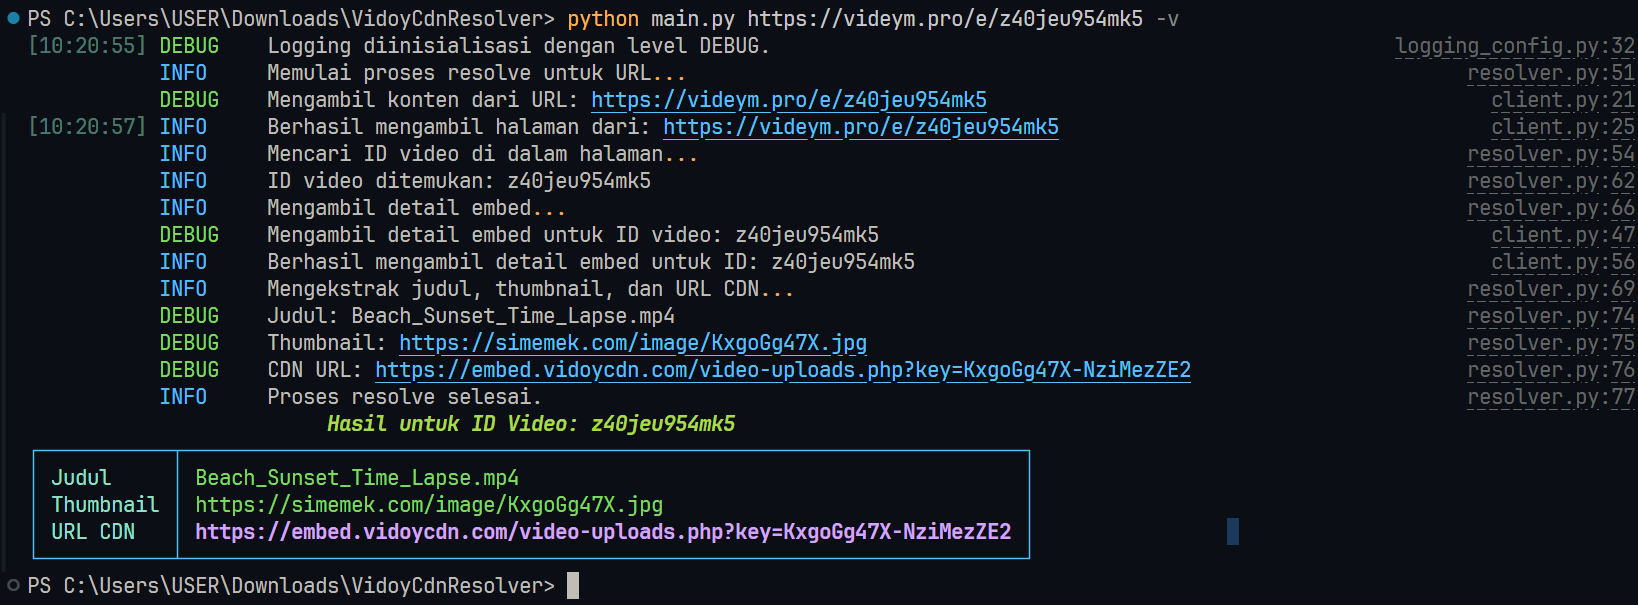
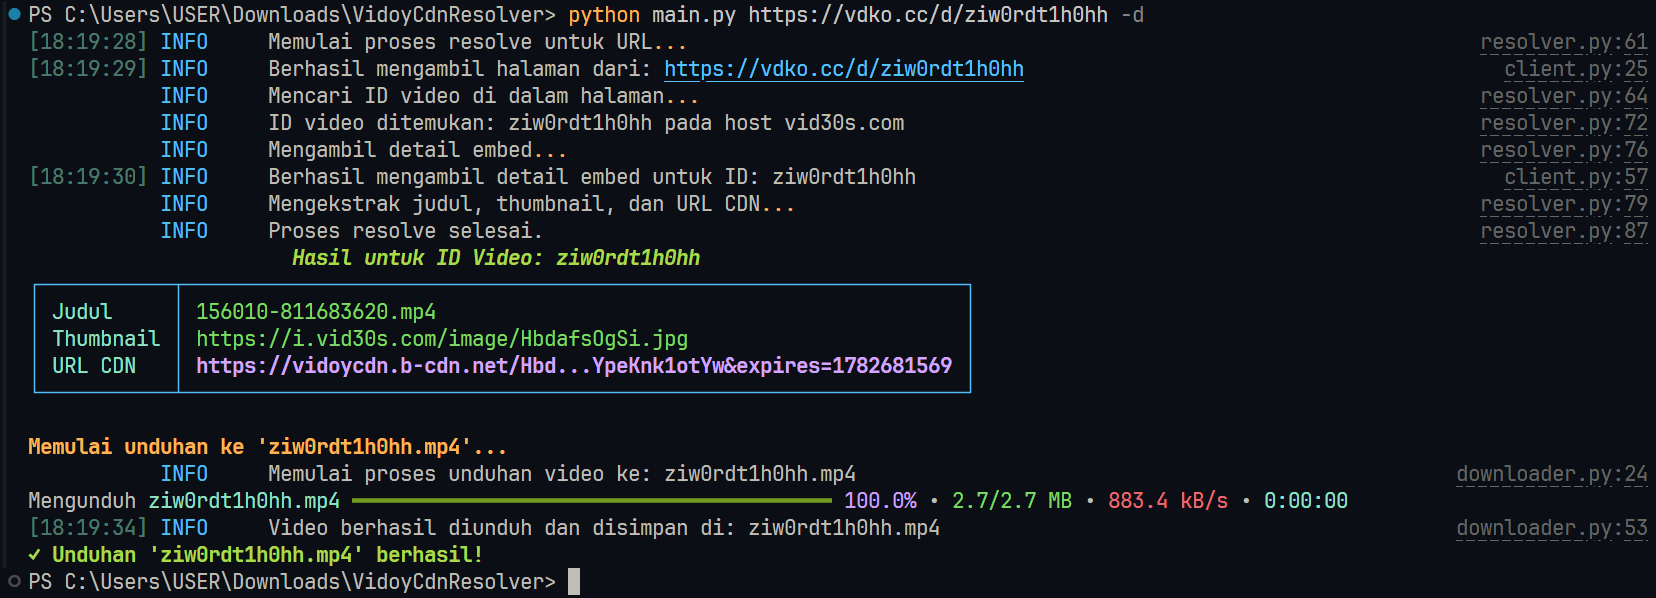
feat: add auto-download and dynamic host URL resolving

diff --git a/main.py b/main.py
@@ -8,7 +8,7 @@ from rich.panel import Panel
 from rich.text import Text
 from typing_extensions import Annotated
 
-from src.vidoy_cdn_resolver import resolver
+from src.vidoy_cdn_resolver import resolver, downloader
 from src.vidoy_cdn_resolver.logging_config import setup_logging
 
 # Inisialisasi objek Typer dan Rich Console
@@ -48,6 +48,14 @@ def main(
             help="Tampilkan output mentah dalam format JSON.",
         ),
     ] = False,
+    download: Annotated[
+        bool,
+        typer.Option(
+            "--download",
+            "-d",
+            help="Unduh file video (MP4) secara otomatis setelah mendapatkan URL CDN.",
+        ),
+    ] = False,
 ):
     """
     Menjalankan resolver Vidoy melalui antarmuka CLI.
@@ -58,6 +66,7 @@ def main(
         url (str): URL halaman video yang ingin di-resolve.
         verbose (bool): Jika True, tampilkan log level DEBUG.
         raw (bool): Jika True, tampilkan hasil dalam format JSON mentah.
+        download (bool): Jika True, video CDN yang didapat akan langsung diunduh.
     """
     setup_logging(is_verbose=verbose)
 
@@ -79,10 +88,26 @@ def main(
             table.add_row("Judul", details.title or "Tidak ditemukan")
             table.add_row("Thumbnail", details.thumbnail_url or "Tidak ditemukan")
 
-            cdn_url_text = Text(details.cdn_url or "Tidak ditemukan", style="bold magenta")
+            display_cdn_url = details.cdn_url or "Tidak ditemukan"
+            if display_cdn_url != "Tidak ditemukan" and len(display_cdn_url) > 65:
+                display_cdn_url = display_cdn_url[:30] + "..." + display_cdn_url[-30:]
+                
+            cdn_url_text = Text(display_cdn_url, style="bold magenta")
             table.add_row("URL CDN", cdn_url_text)
 
             console.print(table)
+            
+        if download and details.cdn_url:
+            output_filename = f"{details.video_id}.mp4"
+            console.print(f"\n[bold yellow]Memulai unduhan ke '{output_filename}'...[/bold yellow]")
+            success = downloader.download_video(details.cdn_url, details.host_name, output_filename)
+            if success:
+                console.print(f"[bold green]✓ Unduhan '{output_filename}' berhasil![/bold green]")
+            else:
+                console.print("[bold red]✗ Gagal mengunduh video. Periksa log atau koneksi Anda.[/bold red]")
+        elif download and not details.cdn_url:
+            console.print("[bold red]✗ Tidak dapat mengunduh karena URL CDN tidak ditemukan![/bold red]")
+            
     except Exception as e:
         logger.exception("Terjadi kesalahan saat menjalankan proses resolve.")
         raise typer.Exit(code=1)

diff --git a/src/vidoy_cdn_resolver/downloader.py b/src/vidoy_cdn_resolver/downloader.py
@@ -1,0 +1,60 @@
+import requests
+import logging
+import os
+from rich.progress import Progress, BarColumn, DownloadColumn, TransferSpeedColumn, TimeRemainingColumn
+from . import config
+
+logger = logging.getLogger(__name__)
+
+def download_video(url: str, host_name: str, output_path: str = "video.mp4") -> bool:
+    """
+    Mengeksekusi proses pengunduhan media dari URL CDN ke penyimpanan lokal.
+
+    Fungsi ini melakukan unduhan secara bertahap (streaming) untuk menjaga
+    efisiensi penggunaan memori, serta menerapkan header standar pengunduhan.
+
+    Args:
+        url (str): URL sumber CDN langsung.
+        host_name (str): Nama host sumber referer video.
+        output_path (str): Lokasi dan nama file tujuan penyimpanan.
+
+    Returns:
+        bool: True jika berhasil diunduh secara penuh, False jika gagal.
+    """
+    logger.info(f"Memulai proses unduhan video ke: {output_path}")
+    try:
+        with requests.get(url, headers=config.get_download_headers(host_name), stream=True, timeout=30) as response:
+            response.raise_for_status()
+            
+            total_size = int(response.headers.get("content-length", 0))
+            
+            if total_size == 0:
+                logger.warning("Ukuran file (Content-Length) tidak diketahui, progress bar tidak dapat ditampilkan dengan akurat.")
+            
+            with open(output_path, "wb") as f, Progress(
+                "[progress.description]{task.description}",
+                BarColumn(),
+                "[progress.percentage]{task.percentage:>3.1f}%",
+                "•",
+                DownloadColumn(),
+                "•",
+                TransferSpeedColumn(),
+                "•",
+                TimeRemainingColumn(),
+            ) as progress:
+                
+                task = progress.add_task(f"Mengunduh [cyan]{os.path.basename(output_path)}", total=total_size)
+                
+                for chunk in response.iter_content(chunk_size=1024 * 1024): # Chunk 1MB
+                    if chunk:
+                        f.write(chunk)
+                        progress.update(task, advance=len(chunk))
+                        
+        logger.info(f"Video berhasil diunduh dan disimpan di: {output_path}")
+        return True
+    except requests.exceptions.RequestException as e:
+        logger.error(f"Gagal mengunduh video: {e}")
+        return False
+    except IOError as e:
+        logger.error(f"Gagal menulis atau menyimpan file video: {e}")
+        return False

diff --git a/src/vidoy_cdn_resolver/config.py b/src/vidoy_cdn_resolver/config.py
@@ -1,24 +1,64 @@
-# Host utama layanan Vidoy.
-# Silakan sesuaikan nilai ini jika Anda menggunakan host/domain Vidoy yang berbeda.
-HOST_NAME = ""
-
 # User-Agent yang akan digunakan untuk semua permintaan HTTP.
 USER_AGENT = (
-    "Mozilla/5.0 (Linux; Android 13; 21091116AG) AppleWebKit/537.36 "
-    "(KHTML, like Gecko) Chrome/127.0.0.0 Mobile Safari/537.36"
+    "Mozilla/5.0 (Windows NT 10.0; Win64; x64) AppleWebKit/537.36 "
+    "(KHTML, like Gecko) Chrome/149.0.0.0 Safari/537.36"
 )
-
-# URL dasar untuk layanan embed Vidoy.
-EMBED_URL = f"https://{HOST_NAME}/embed.php"
 
 # Header default untuk permintaan HTTP.
 BASE_HEADERS = {
     "User-Agent": USER_AGENT,
 }
 
-# Header yang diperlukan khusus untuk mengambil detail embed.
-EMBED_HEADERS = {
-    "User-Agent": USER_AGENT,
-    "Referer": f"https://{HOST_NAME}/",
-    "Host": HOST_NAME,
-}
+def get_embed_url(host_name: str) -> str:
+    """
+    Menghasilkan URL lengkap untuk mengakses halaman embed berdasarkan nama host.
+
+    Args:
+        host_name (str): Nama host yang didapatkan dari URL sumber.
+
+    Returns:
+        str: URL tujuan untuk halaman embed video.
+    """
+    return f"https://{host_name}/embed.php"
+
+def get_embed_headers(host_name: str) -> dict:
+    """
+    Merakit header HTTP khusus untuk permintaan ke halaman embed.
+
+    Args:
+        host_name (str): Nama host yang didapatkan dari URL sumber.
+
+    Returns:
+        dict: Kumpulan header HTTP yang dibutuhkan.
+    """
+    return {
+        "User-Agent": USER_AGENT,
+        "Referer": f"https://{host_name}/",
+        "Host": host_name,
+    }
+
+def get_download_headers(host_name: str) -> dict:
+    """
+    Menyiapkan header HTTP yang diperlukan untuk mengunduh media dari CDN.
+
+    Args:
+        host_name (str): Nama host sumber untuk dijadikan sebagai referer.
+
+    Returns:
+        dict: Konfigurasi header lengkap untuk pengunduhan.
+    """
+    return {
+        "Accept-Encoding": "identity;q=1, *;q=0",
+        "Accept-Language": "en-US,en;q=0.6",
+        "Connection": "keep-alive",
+        "Host": "vidoycdn.b-cdn.net",
+        "Range": "bytes=0-",
+        "Referer": f"https://{host_name}/",
+        "Sec-Fetch-Dest": "video",
+        "Sec-Fetch-Mode": "no-cors",
+        "Accept": "*/*",
+        "Sec-Fetch-Site": "cross-site",
+        "Sec-GPC": "1",
+        "User-Agent": USER_AGENT,
+        "Sec-Fetch-Storage-Access": "none",
+    }

diff --git a/src/vidoy_cdn_resolver/resolver.py b/src/vidoy_cdn_resolver/resolver.py
@@ -12,9 +12,19 @@ class VideoDetails:
     Berisi ID video dan metadata opsional seperti judul, thumbnail, dan URL CDN.
     """
     video_id: str
+    host_name: str
     title: Optional[str] = None
     thumbnail_url: Optional[str] = None
     cdn_url: Optional[str] = None
+
+def _extract_host_and_id(pattern, text: str) -> tuple[Optional[str], Optional[str]]:
+    """
+    Mengambil host name dan ID video dari teks.
+    """
+    match = pattern.search(text)
+    if match:
+        return match.group(1), match.group(2)
+    return None, None
 
 def _extract_match(pattern, text: str) -> Optional[str]:
     """
@@ -52,19 +62,19 @@ def resolve(page_url: str) -> VideoDetails:
     page_content = client.fetch_page_content(page_url)
     
     logger.info("Mencari ID video di dalam halaman...")
-    video_id = _extract_match(patterns.VIDEO_ID_PATTERN, page_content)
+    host_name, video_id = _extract_host_and_id(patterns.VIDEO_ID_PATTERN, page_content)
 
-    if not video_id:
-        logger.error("Ekstraksi ID video gagal.")
-        raise ValueError("Tidak dapat menemukan ID video di URL yang diberikan. "
+    if not video_id or not host_name:
+        logger.error("Ekstraksi ID video atau Host Name gagal.")
+        raise ValueError("Tidak dapat menemukan ID video atau Host Name di URL yang diberikan. "
                          "Pastikan URL valid dan halaman berisi video.")
     
-    logger.info(f"ID video ditemukan: {video_id}")
+    logger.info(f"ID video ditemukan: {video_id} pada host {host_name}")
 
-    details = VideoDetails(video_id=video_id)
+    details = VideoDetails(video_id=video_id, host_name=host_name)
 
     logger.info("Mengambil detail embed...")
-    embed_content = client.fetch_embed_details(video_id)
+    embed_content = client.fetch_embed_details(video_id, host_name)
 
     logger.info("Mengekstrak judul, thumbnail, dan URL CDN...")
     details.title = _extract_match(patterns.TITLE_PATTERN, embed_content)

diff --git a/src/vidoy_cdn_resolver/client.py b/src/vidoy_cdn_resolver/client.py
@@ -29,13 +29,14 @@ def fetch_page_content(url: str) -> str:
         logger.error(f"Gagal mengambil halaman dari {url}: {e}")
         raise requests.exceptions.RequestException(f"Gagal mengambil halaman dari {url}: {e}") from e
 
-def fetch_embed_details(video_id: str) -> str:
+def fetch_embed_details(video_id: str, host_name: str) -> str:
     """
     Mengambil konten halaman embed berdasarkan ID video.
     Fungsi ini mengakses endpoint internal Vidoy untuk mendapatkan metadata video.
 
     Args:
         video_id (str): ID unik dari video yang diminta.
+        host_name (str): Nama host tempat video tersebut berada.
 
     Returns:
         str: Konten teks dari halaman embed.
@@ -47,9 +48,9 @@ def fetch_embed_details(video_id: str) -> str:
     logger.debug(f"Mengambil detail embed untuk ID video: {video_id}")
     try:
         response = requests.get(
-            config.EMBED_URL,
+            config.get_embed_url(host_name),
             params=params,
-            headers=config.EMBED_HEADERS,
+            headers=config.get_embed_headers(host_name),
             timeout=30
         )
         response.raise_for_status()

diff --git a/src/vidoy_cdn_resolver/patterns.py b/src/vidoy_cdn_resolver/patterns.py
@@ -1,7 +1,7 @@
 import re
 
-# Pola untuk mengekstrak ID video dari dalam tag <script>.
-VIDEO_ID_PATTERN = re.compile(r'var id = ["\'](.*?)["\'];')
+# Pola untuk mengekstrak nama host dan ID video dari tautan (URL) embed.
+VIDEO_ID_PATTERN = re.compile(r'https?://([^/]+)/[ed]/([a-zA-Z0-9_-]+)')
 
 # Pola untuk mengekstrak judul halaman dari tag <title>.
 TITLE_PATTERN = re.compile(r'<title>(.*?)</title>')

diff --git a/README.md b/README.md
@@ -1,12 +1,14 @@
 # VidoyCdnResolver
 
-A lightweight Python CLI tool to resolve CDN and embed video URLs from Vidoy pages, with clean architecture and Rich-powered output.
+A smart, terminal-based downloader for Vidoy pages. Resolves CDN links dynamically and streams MP4 videos directly to your disk with a beautiful, distraction-free UI.
 
 ## ✨ Features
 
+- **Auto-Download** (`-d` / `--download`) videos to `.mp4` with a beautiful streaming progress bar
 - Resolve **video ID**, **title**, **thumbnail**, and **direct CDN URL**
+- **Smart & Dynamic Host Resolving** (automatically adapts to domain changes)
 - Clean CLI powered by **Typer**
-- Beautiful terminal output using **Rich**
+- Beautiful terminal output using **Rich** (automatically crops excessively long URLs)
 - Optional **debug logging** and **raw JSON output**
 
 ## 📦 Installation
@@ -20,6 +22,7 @@ pip install -r requirements.txt
 | Command | Description |
 |--------|------------|
 | `python main.py <PAGE_URL>` | Resolve video page dan tampilkan hasil dengan Rich table |
+| `python main.py <PAGE_URL> -d` | **Unduh** video CDN secara otomatis dan simpan sebagai `.mp4` |
 | `python main.py <PAGE_URL> -v` | Tampilkan verbose debug logs |
 | `python main.py <PAGE_URL> --raw` | Output mentah dalam format JSON |
 
@@ -28,7 +31,7 @@ pip install -r requirements.txt
 With debug enabled:
 
 ```bash
-python main.py https://videym.pro/e/z40jeu954mk5 -v
+python main.py https://vdko.cc/d/ziw0rdt1h0hh -v
 ```
 
 Result:
@@ -36,8 +39,9 @@ Result:
 * Title
 * Thumbnail URL
 * Direct CDN URL (ready to use)
+* Automatic `.mp4` download with progress indicator (if `-d` flag is used)
 
-See `/screenshot/successful-resolve-with-debug-logs.png` for a full example.
+See [`/screenshot/successful-resolve-with-debug-logs.png`](/screenshot/successful-resolve-with-debug-logs.png) for a full example.
 
 ## 📁 Project Structure
 
@@ -48,7 +52,6 @@ VidoyCdnResolver/
 ├── requirements.txt
 ├── screenshot/
 └── src/
-    └── vidoy_cdn_resolver/
 ```
 
 ## ⚠ Disclaimer
